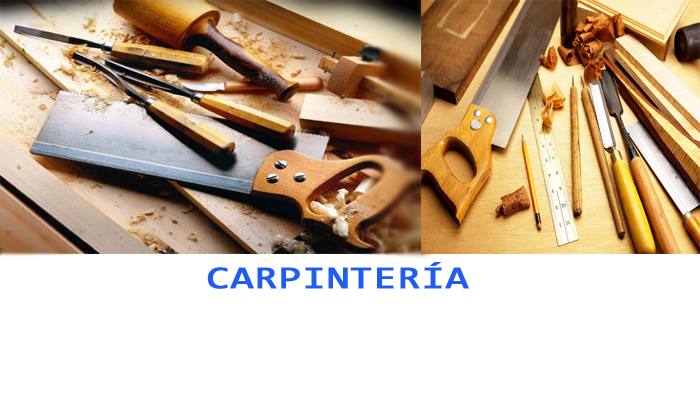
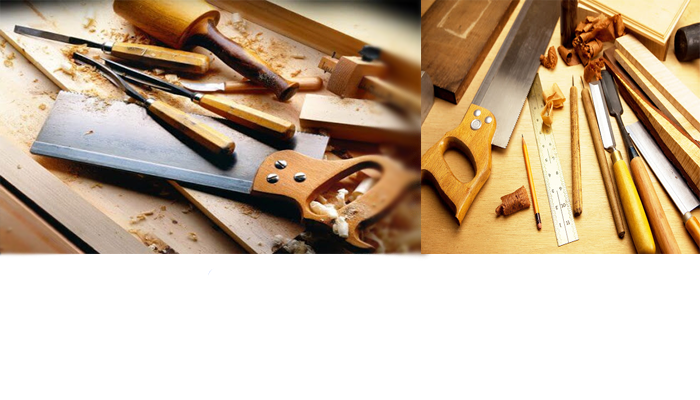
modificación de la página de empleos, agregué imagenes

Changed region(s): [[0.3, 0.66, 0.69, 0.72]]

diff --git a/empleos.html b/empleos.html
@@ -15,7 +15,7 @@
 
   <!-- Custom styles for this template -->
   <link href="css/modern-business.css" rel="stylesheet">
-
+<link rel="stylesheet" href="css/estyle.css">
 </head>
 
 <body>
@@ -88,7 +88,7 @@
       </li>
       <li class="breadcrumb-item active">Empleos</li>
     </ol>
-    <center><h3 style="font-style: italic;color:rgb(24, 39, 66);">Ofertas de empleo hoy.</h3></center>
+    <h3 style="font-style: italic;color:rgb(24, 39, 66);">Ofertas de empleo hoy.</h3>
    
     <!-- Inicio Ofertas de empleo del día.-->
     <div id="carouselExampleIndicators" class="carousel slide" data-ride="carousel">
@@ -101,35 +101,43 @@
         <!-- Slide One - Set the background image for this slide in the line below -->
         <div class="carousel-item active" style="background-image: url('img/carpinteria.png')">
           <div class="carousel-caption d-none d-md-block">
-            <h3></h3>
-            <p>“La única discapacidad en la vida es una mala actitud” (Scott Hamilton).</p>
+            <h3 style="color: black;">Descipción del empleo</h3>
+            <p id="pa">Lorem ipsum dolor sit amet consectetur, adipisicing elit. Dolores, architecto!</p>
           </div>
         </div>
         <!-- Slide Two - Set the background image for this slide in the line below -->
-        <div class="carousel-item" style="background-image: url('RECURSOS/six.jpg')">
+        <div class="carousel-item" style="background-image: url('img/reparacion.png')">
           <div class="carousel-caption d-none d-md-block">
-            <h3></h3>
-            <p>“No tengo una discapacidad, tengo una habilidad diferente” (Robert M. Hensel).</p>
+            <h3 style="color: black;">Descipción del empleo</h3>
+            <p id="pa">Lorem ipsum dolor sit amet consectetur, adipisicing elit. Dolores, architecto!</p>
           </div>
         </div>
          <!-- Slide Three - Set the background image for this slide in the line below -->
-         <div class="carousel-item" style="background-image: url('RECURSOS/four.jpg')">
+         <div class="carousel-item" style="background-image: url('img/informatica.png')">
           <div class="carousel-caption d-none d-md-block">
-            <h3></h3>
-            <p>“No tengo una discapacidad, tengo una habilidad diferente” (Robert M. Hensel).</p>
+            <h3 style="color: black;">Descipción del empleo</h3>
+            <p id="pa">Lorem ipsum dolor sit amet consectetur, adipisicing elit. Dolores, architecto!</p>
           </div>
         </div>
-        <!-- Slide Three - Set the background image for this slide in the line below -->
+      <!--  Slide Three - Set the background image for this slide in the line below 
         <div class="carousel-item">
           <video width="100%" height="auto" autoplay>
             <source src="img/Pexels.mp4" type="video/mp4">
           </video>
           <div class="carousel-caption d-none d-md-block">
-           <!--  <h3>Imgen 3</h3> -->
+           h3>Imgen 3</h3> 
             <p>«El miedo es la discapacidad más grande de todas» (Nick Vujicic).</p>
           </div>
         </div>
+      </div> -->
+
+      <div class="carousel-item" style="background-image: url('img/bisuteria.png')">
+        <div class="carousel-caption d-none d-md-block">
+          <h3 style="color: black;">Descipción del empleo</h3>
+          <p id="pa">Lorem ipsum dolor sit amet consectetur, adipisicing elit. Dolores, architecto!</p>
+        </div>
       </div>
+
       <a class="carousel-control-prev" href="#carouselExampleIndicators" role="button" data-slide="prev">
         <span class="carousel-control-prev-icon" aria-hidden="true"></span>
         <span class="sr-only">Previous</span>
@@ -140,19 +148,24 @@
       </a>
     </div>
   </header>
+<center>
+  <a class="btn btn-primary" href="ingresar_a_curso.html">Aplicar al empleo (enviar datos)
+    <span class="glyphicon glyphicon-chevron-right"></span>
+  </a>
+</center>
 
   <!-- Page Content -->
     <!-- Fin Ofertas de empleo del día.-->
   <br>
-  <center><h3 style="font-style: italic;color:rgb(24, 39, 66);">Más ofertas (vacantes).</h3></center>
+  <center><h3 style="font-style: italic;color:rgb(24, 39, 66);">Más ofertas de empleo(vacantes).</h3></center>
     <div class="row">
     
       <div class="col-lg-3 col-md-4 col-sm-6 portfolio-item">
         <div class="card h-100">
-          <a href="#"><img class="card-img-top" src="http://placehold.it/700x400" alt=""></a>
+          <a href="#"><img class="card-img-top" src="RECURSOS/pintar-casa-profesional.jpg" alt=""></a>
           <div class="card-body">
             <h4 class="card-title">
-              <a href="#">Project One</a>
+              <a href="#">Pintura</a>
             </h4>
             <p class="card-text">Lorem ipsum dolor sit amet, consectetur adipisicing elit. Amet numquam aspernatur eum quasi sapiente nesciunt? Voluptatibus sit, repellat sequi itaque deserunt, dolores in, nesciunt, illum tempora ex quae? Nihil, dolorem!</p>
           </div>
@@ -160,30 +173,30 @@
       </div>
       <div class="col-lg-3 col-md-4 col-sm-6 portfolio-item">
         <div class="card h-100">
-          <a href="#"><img class="card-img-top" src="http://placehold.it/700x400" alt=""></a>
+          <a href="#"><img class="card-img-top" src="RECURSOS/cómo-funciona-la-ebanistería-800x400.jpg" alt=""></a>
           <div class="card-body">
             <h4 class="card-title">
-              <a href="#">Project One</a>
+              <a href="#">Ebanistería</a>
             </h4>
             <p class="card-text">Lorem ipsum dolor sit amet, consectetur adipisicing elit. Amet numquam aspernatur eum quasi sapiente nesciunt? Voluptatibus sit, repellat sequi itaque deserunt, dolores in, nesciunt, illum tempora ex quae? Nihil, dolorem!</p>
           </div>
         </div>
       </div> <div class="col-lg-3 col-md-4 col-sm-6 portfolio-item">
         <div class="card h-100">
-          <a href="#"><img class="card-img-top" src="http://placehold.it/700x400" alt=""></a>
+          <a href="#"><img class="card-img-top" src="RECURSOS/albañil.jpg" alt=""></a>
           <div class="card-body">
             <h4 class="card-title">
-              <a href="#">Project One</a>
+              <a href="#">Albañilería</a>
             </h4>
             <p class="card-text">Lorem ipsum dolor sit amet, consectetur adipisicing elit. Amet numquam aspernatur eum quasi sapiente nesciunt? Voluptatibus sit, repellat sequi itaque deserunt, dolores in, nesciunt, illum tempora ex quae? Nihil, dolorem!</p>
           </div>
         </div>
       </div> <div class="col-lg-3 col-md-4 col-sm-6 portfolio-item">
         <div class="card h-100">
-          <a href="#"><img class="card-img-top" src="http://placehold.it/700x400" alt=""></a>
+          <a href="#"><img class="card-img-top" src="RECURSOS/electricistas-valencia-24-horas.jpg" alt=""></a>
           <div class="card-body">
             <h4 class="card-title">
-              <a href="#">Project One</a>
+              <a href="#">Electricista</a>
             </h4>
             <p class="card-text">Lorem ipsum dolor sit amet, consectetur adipisicing elit. Amet numquam aspernatur eum quasi sapiente nesciunt? Voluptatibus sit, repellat sequi itaque deserunt, dolores in, nesciunt, illum tempora ex quae? Nihil, dolorem!</p>
           </div>

diff --git a/css/estyle.css b/css/estyle.css
@@ -50,3 +50,6 @@
 #sec{
     color: white;
 }
+#pa{
+    color: black;
+}
